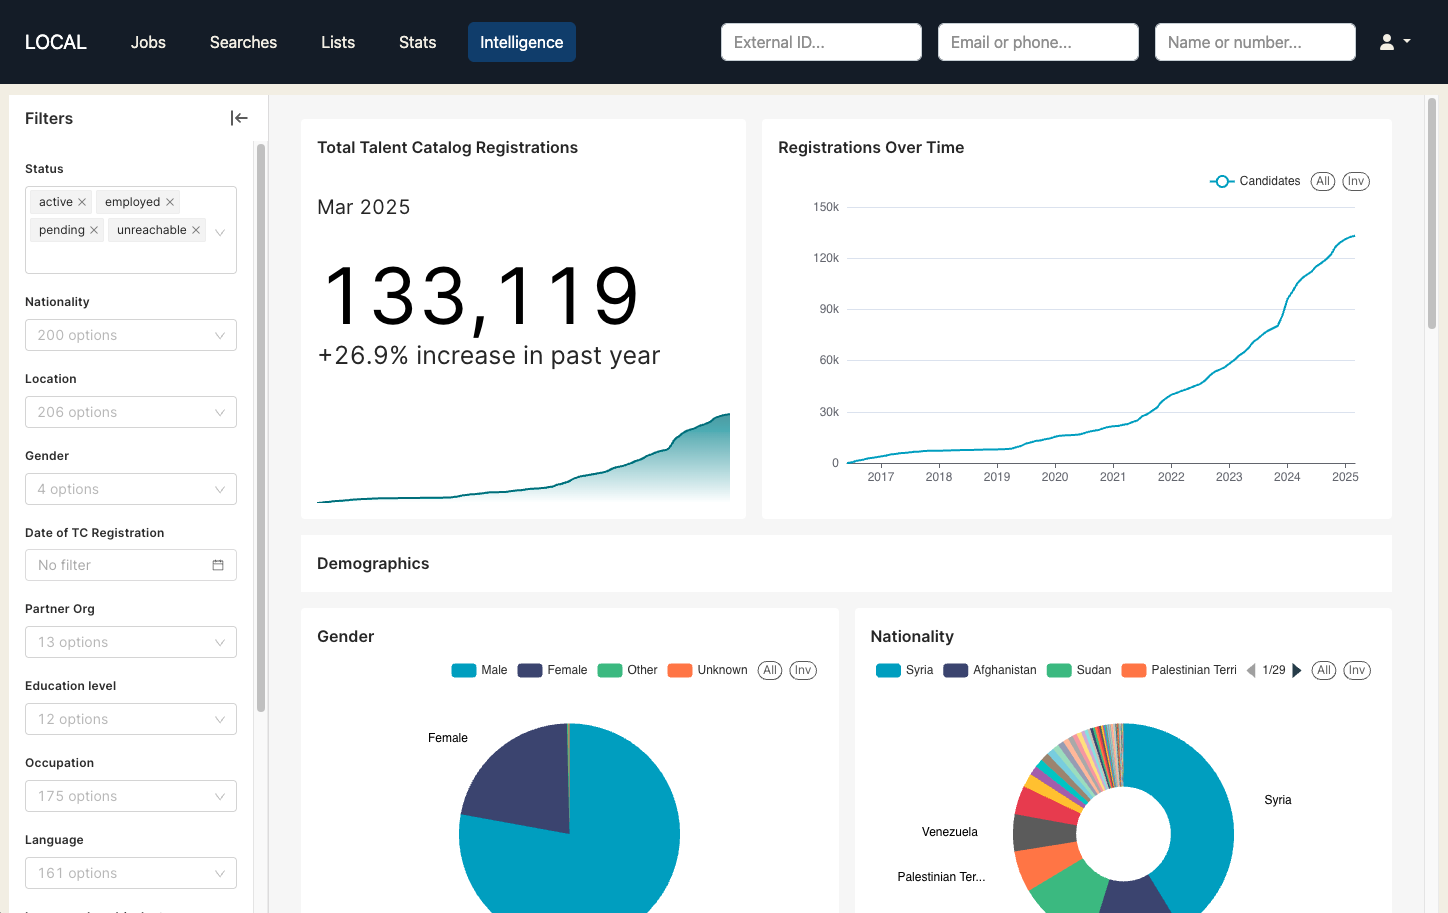
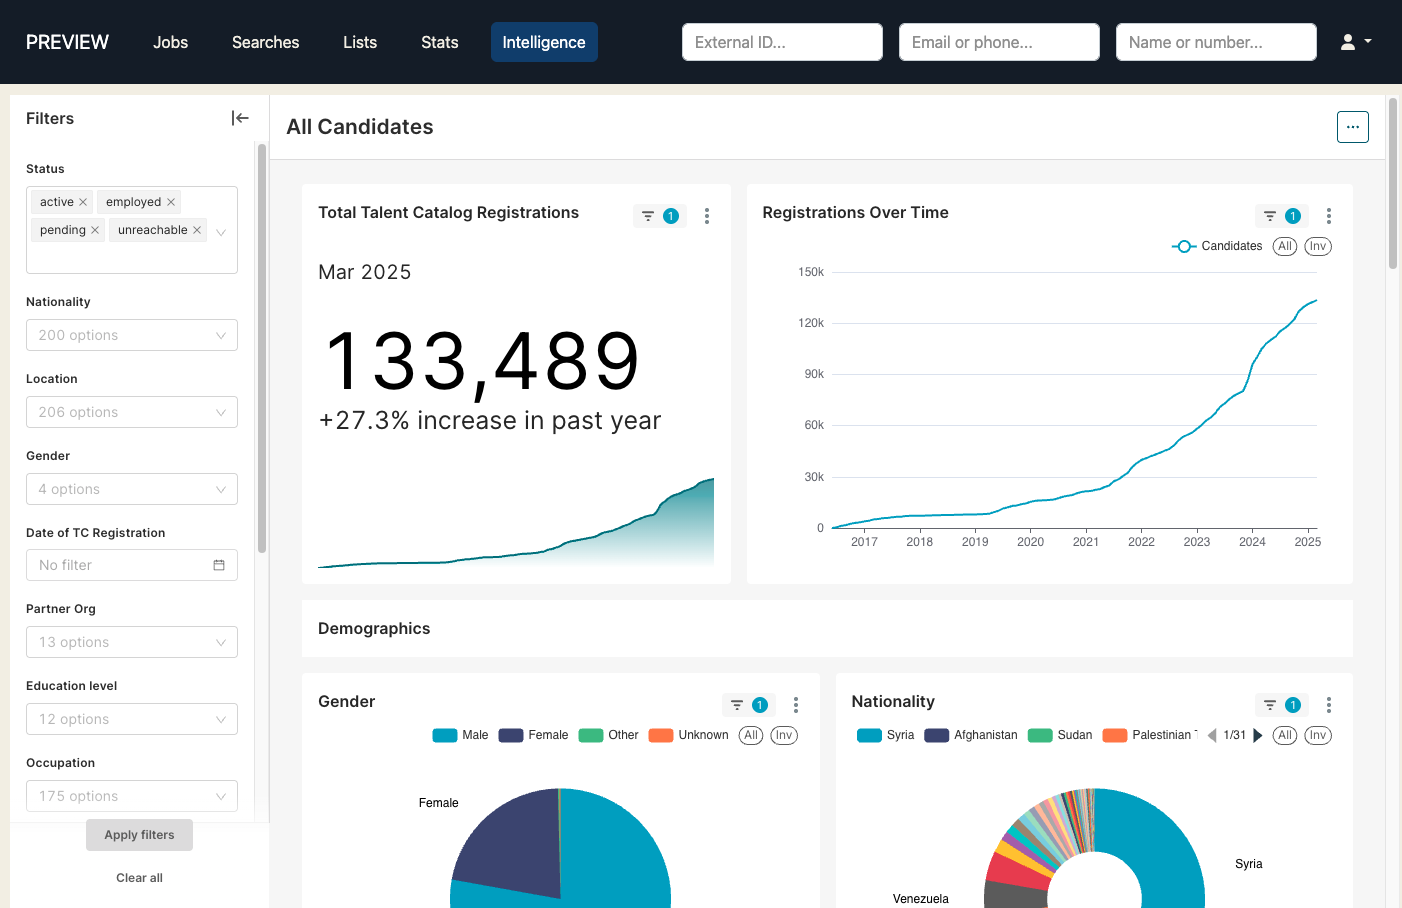
Switched to staging photos and tiny text edit

diff --git a/docs/v230/tc_intelligence.md b/docs/v230/tc_intelligence.md
@@ -20,7 +20,7 @@ The first dashboard in this offering enables analysis of the full candidate data
 interactive filters capable of quickly isolating segments in response to your most obscure query. 
 
 Further dashboards are already on the way: TC Intelligence is not only a step forward in terms of 
-quality — it also offers a short lead time independent of the usual release cycle. Users are 
+quality: it also offers a short lead time independent of the usual release cycle. Users are 
 encouraged to come forward with feedback and ideas to drive its continued improvement and expansion.
 
 <div class="card-image-container-narrow">
